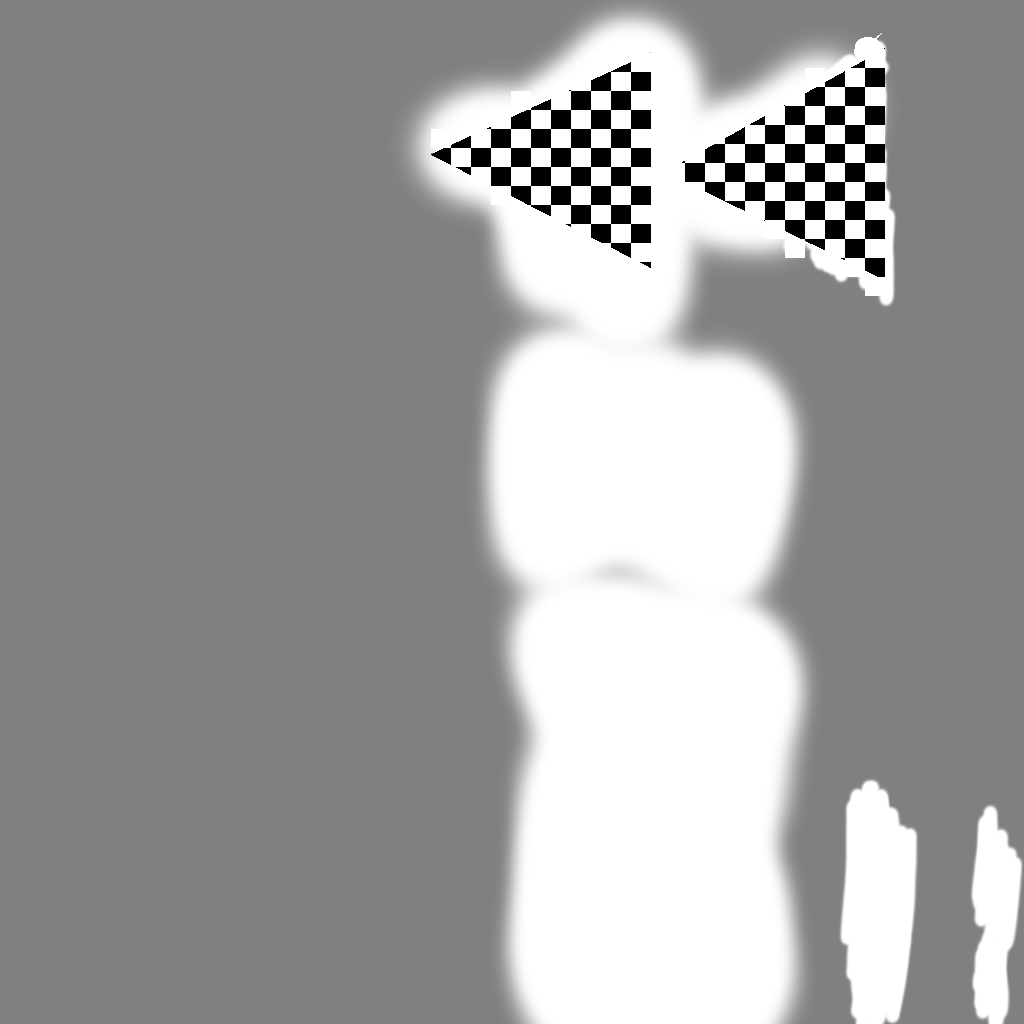
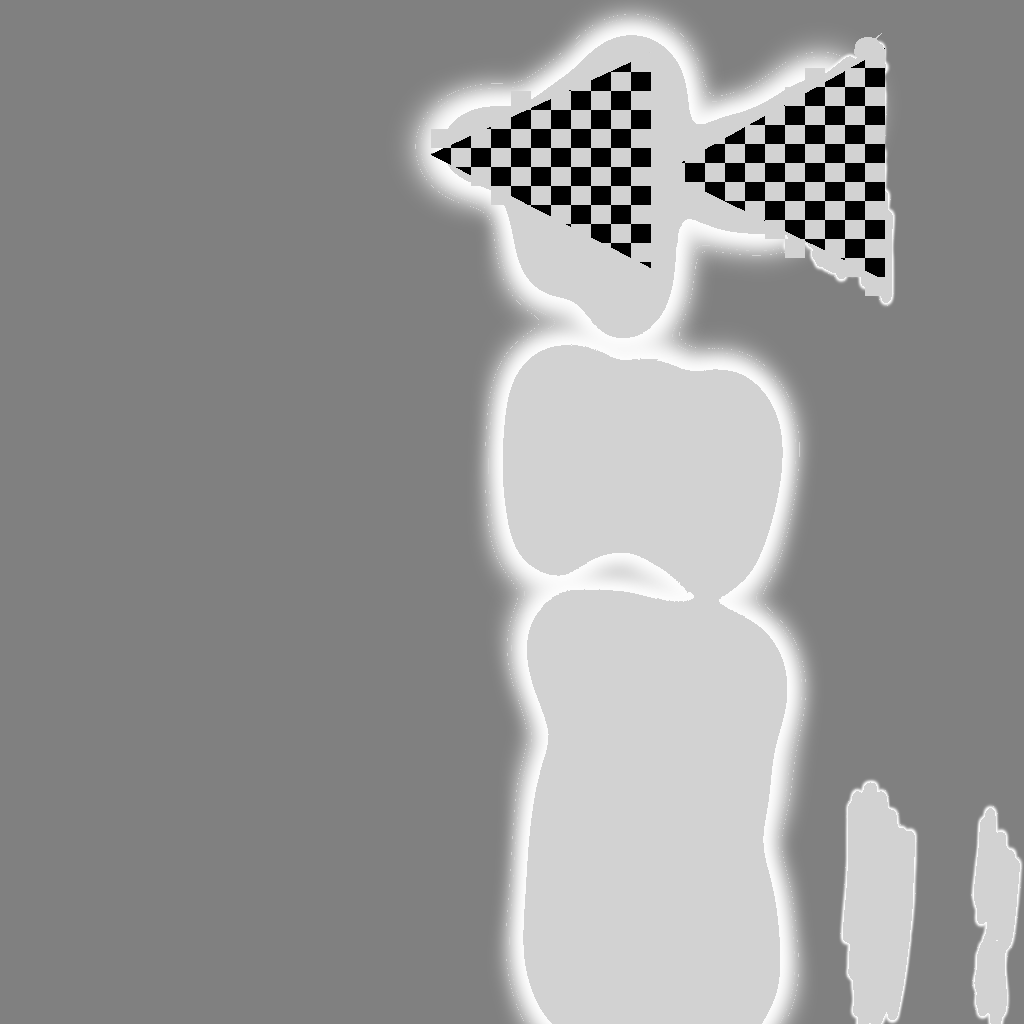
平行光源を抜いて、弾の色を変えた

Changed region(s): [[0.4062, 0.0312, 0.875, 1.0], [0.8125, 0.75, 0.9062, 1.0], [0.9375, 0.7812, 1.0, 1.0]]

diff --git a/application/Player/Player.cpp b/application/Player/Player.cpp
@@ -45,7 +45,7 @@ void Player::Update()
 		if ( interval == 0 )
 		{
 			Move();
-			if (onGround_==false )
+			if ( onGround_ == false )
 			{
 				Attack();
 			}
@@ -74,6 +74,12 @@ void Player::Update()
 			isDelete_ = true;
 		}
 	}
+
+	EnemyCollision();
+
+	move_ = MapCollision();
+
+	obj_->SetPosition(move_);
 
 	Object3d::SetTarget(Object3d::GetTarget() + ( ( obj_->GetPosition() - Object3d::GetTarget() ) * cameraSpeed_ ));
 
@@ -205,12 +211,6 @@ void Player::Move()
 	{
 		obj_->SetRot({ 0, atan2f(frontVec.x, -frontVec.z),0 });
 	}
-
-	EnemyCollision();
-
-	move_ = MapCollision();
-
-	obj_->SetPosition(move_);
 }
 
 void Player::Finalize()
@@ -242,6 +242,42 @@ void Player::Attack()
 
 			//弾の登録する
 			PlayerBulletManager::Instance()->AddBullet(std::move(newBullet));
+		}
+		if ( Input::Instance()->PadTriggerKey(XINPUT_GAMEPAD_RIGHT_THUMB))
+		{
+			Vector3 velocity(0,0,1);
+
+			velocity = Matrix4Math::transform(velocity,obj_->GetMatWorld());
+			velocity.normalize();
+			velocity *= kBulletSpeed_;
+
+			Vector3 pos[ 3 ]
+			{
+				{0,0,0},
+				{1,0,0},
+				{-1,0,0},
+			};
+
+			//弾の生成し、初期化
+			std::unique_ptr<PlayerBullet> newBullet[ 3 ];
+			for ( int i = 0; i < 3; i++ )
+			{
+				pos[ i ] = Matrix4Math::transform(pos[ i ],obj_->GetMatWorld());
+				pos[ i ].normalize();
+				pos[ i ] *= 3;
+
+				newBullet[ i ] = std::make_unique<PlayerBullet>();
+				newBullet[ i ]->Initialize(bulletModel_.get(),{ velocity.x,velocity.z },( obj_->GetPosition() + ( velocity * 3 ) ) + pos[ i ],bulletLife_);
+
+				newBullet[ i ]->SetPhase(PlayerBullet::Phase::Charge);
+
+				newBullet[ i ]->SetChageTime(30);
+
+							//弾の登録する
+				PlayerBulletManager::Instance()->AddBullet(std::move(newBullet[ i ]));
+			}
+
+			interval = 30;
 		}
 	}
 	else
@@ -291,7 +327,7 @@ void Player::Attack()
 				pos[ i ] *= 3;
 
 				newBullet[ i ] = std::make_unique<PlayerBullet>();
-				newBullet[ i ]->Initialize(bulletModel_.get(),{ velocity.x,velocity.z },(obj_->GetPosition() + ( velocity * 3 ))+pos[i],bulletLife_);
+				newBullet[ i ]->Initialize(bulletModel_.get(),{ velocity.x,velocity.z },( obj_->GetPosition() + ( velocity * 3 ) ) + pos[ i ],bulletLife_);
 
 				newBullet[ i ]->SetPhase(PlayerBullet::Phase::Charge);
 
@@ -301,7 +337,7 @@ void Player::Attack()
 				PlayerBulletManager::Instance()->AddBullet(std::move(newBullet[ i ]));
 			}
 
-			interval = 60;
+			interval = 30;
 		}
 	}
 }

diff --git a/application/Player/PlayerBullet.cpp b/application/Player/PlayerBullet.cpp
@@ -13,7 +13,7 @@ void PlayerBullet::Initialize(Model* model, Vector2 velocity, Vector3 position,u
 
 	obj_->SetPosition(position);
 
-	obj_->SetColor({3,3,3});
+	//obj_->SetColor({3,3,3});
 
 	life_ = life;
 }
@@ -78,12 +78,12 @@ void PlayerBullet::OnCollision()
 		Vector3 pos{};
 		pos.x = ( float ) rand() / RAND_MAX * rnd_pos - rnd_pos / 2;
 		pos.y = ( ( float ) rand() / RAND_MAX * rnd_pos - rnd_pos / 2 );
-		pos.z = ( float ) rand() / RAND_MAX * rnd_pos - rnd_pos / 2;
+		pos.z = -abs(( float ) rand() / RAND_MAX * rnd_pos - rnd_pos / 2);
 
 		//pos.normalize();
 
 		//追加
-		PlayerBulletManager::Instance()->GetParticle()->Add(life,obj_->GetPosition(),pos,{0,0,0},1.0f,1.0f,{1,1,1,1},{1,0.7f,0,0});
+		PlayerBulletManager::Instance()->GetParticle()->Add(life,obj_->GetPosition(),pos,{0,0,0},1.0f,1.0f,{3,3,1,1},{3,3,0.5,1});
 	}
 }
 

diff --git a/application/Collider/AppCollider.h b/application/Collider/AppCollider.h
@@ -1,0 +1,17 @@
+#pragma once
+class AppCollider
+{
+#pragma region Singleton
+private:
+	AppCollider() {};
+
+	~AppCollider() {};
+public:
+	AppCollider(const AppCollider& carManager) = delete;
+
+	AppCollider& operator=(const AppCollider& carManager) = delete;
+
+	static AppCollider* Instance();
+#pragma endregion
+};
+

diff --git a/application/Scene/GameScene.cpp b/application/Scene/GameScene.cpp
@@ -52,7 +52,7 @@ void GameScene::Initialize()
 
 	Object3d::SetLight(light_.get());
 
-	light_->SetDirLightDir(0,{ 0,-1,0 });
+	light_->SetDirLightActive(0,false);
 
 	light_->SetDirLightActive(1,false);
 

diff --git a/application/Collider/AppCollider.cpp b/application/Collider/AppCollider.cpp
@@ -1,0 +1,8 @@
+#include"AppCollider.h"
+
+AppCollider* AppCollider::Instance()
+{
+	static  AppCollider instance;
+
+	return &instance;
+}
